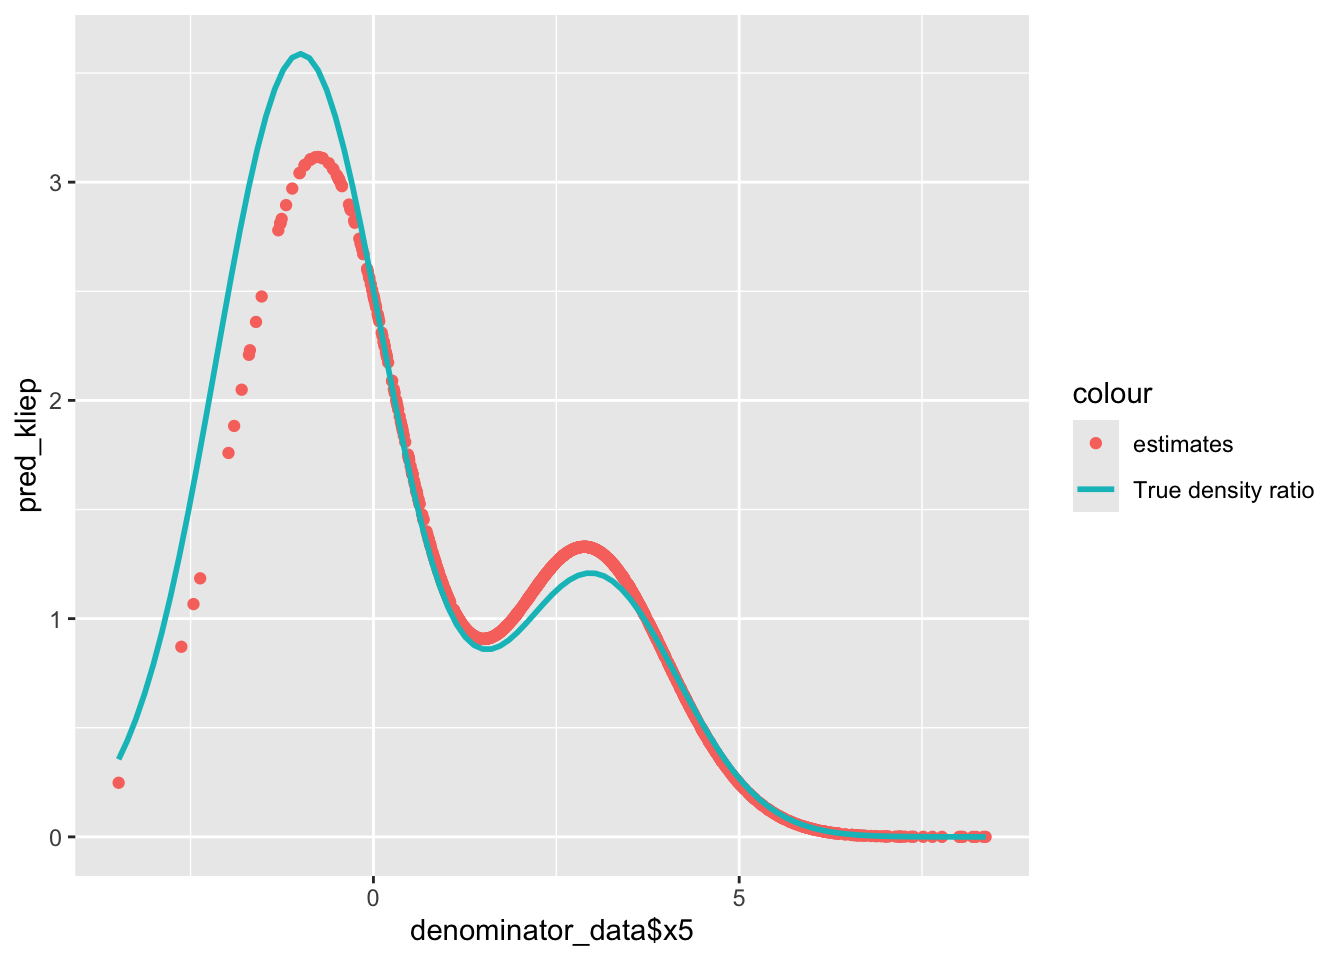
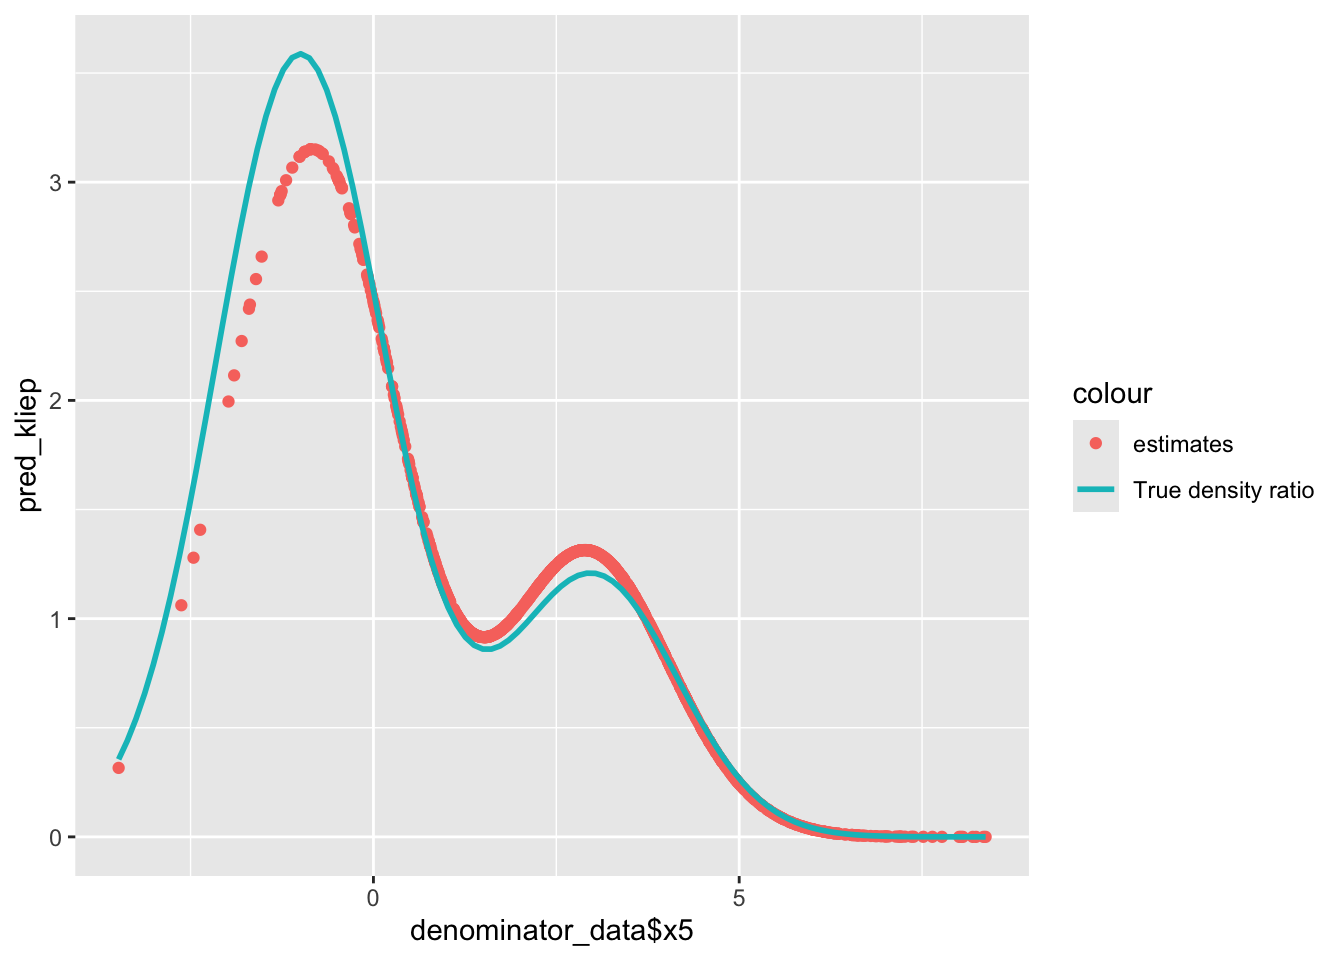
add link

diff --git a/kl_method.html b/kl_method.html
@@ -16,7 +16,7 @@
 <script src="site_libs/header-attrs-2.28/header-attrs.js"></script>
 <script src="site_libs/jquery-3.6.0/jquery-3.6.0.min.js"></script>
 <meta name="viewport" content="width=device-width, initial-scale=1" />
-<link href="site_libs/bootstrap-3.3.5/css/readable.min.css" rel="stylesheet" />
+<link href="site_libs/bootstrap-3.3.5/css/bootstrap.min.css" rel="stylesheet" />
 <script src="site_libs/bootstrap-3.3.5/js/bootstrap.min.js"></script>
 <script src="site_libs/bootstrap-3.3.5/shim/html5shiv.min.js"></script>
 <script src="site_libs/bootstrap-3.3.5/shim/respond.min.js"></script>
@@ -448,21 +448,21 @@ summary(fit_kliep)</code></pre>
 ## Kernel Information:
 ##   Kernel type: Gaussian with L2 norm distances
 ##   Number of kernels: 200
-## Optimal sigma: 0.4990782
-## Optimal kernel weights: num [1:200, 1] 0.0275 0 0 0 0.0261 ...
+## Optimal sigma: 0.5161011
+## Optimal kernel weights: num [1:200, 1] 0 0 0.1127 0 0.0318 ...
 ##  
-## Kullback-Leibler divergence between P(nu) and P(de): 0.2771
+## Kullback-Leibler divergence between P(nu) and P(de): 0.2798
 ## For a two-sample homogeneity test, use &#39;summary(x, test = TRUE)&#39;.</code></pre>
 <pre class="r"><code># Predict estimated density ratio
 pred_kliep  &lt;- predict(fit_kliep, newdata = denominator_data$x5)
 summary(pred_kliep)</code></pre>
 <pre><code>##        V1           
-##  Min.   :0.0000083  
-##  1st Qu.:0.5014463  
-##  Median :1.0145162  
+##  Min.   :0.0000104  
+##  1st Qu.:0.5044126  
+##  Median :1.0171172  
 ##  Mean   :1.0000000  
-##  3rd Qu.:1.2755829  
-##  Max.   :3.1155854</code></pre>
+##  3rd Qu.:1.2679524  
+##  Max.   :3.1508022</code></pre>
 <pre class="r"><code># Function of true density ratio
 dbinorm &lt;- function(x, p, dif) {
   p * dnorm(x, 0, 1) + (1 - p) * dnorm(x, dif, 1)
@@ -495,12 +495,15 @@ dratio_kliep &lt;- function(x, p, dif, mu, sd) {
 </div>
 <div id="highlights" class="section level1">
 <h1>Highlights</h1>
+<p>We use R packages ‘densityratio’ which contains sample data and
+kernel-based density ratio estimation methods.</p>
 </div>
 <div id="references" class="section level1">
 <h1>References</h1>
-</div>
-<div id="appendix" class="section level1">
-<h1>Appendix</h1>
+<ul>
+<li><a href="https://github.com/thomvolker/densityratio.git"
+class="uri">https://github.com/thomvolker/densityratio.git</a></li>
+</ul>
 </div>
 
 
